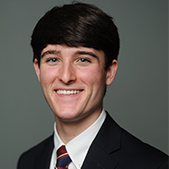
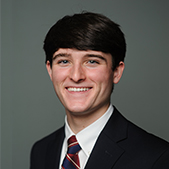
- fixed images and headings

diff --git a/index.html b/index.html
@@ -158,23 +158,25 @@
 									<p>“Non Impediti Ratione Cogitationis — Unencumbered by the Thought Process.”<br>—Tom Magliozzi</p>
 								</div>
 							</div>
-                            <h2>Meet the Student</h2>
-                            <p>We only keep a few...</p>
+                            <header class="major special">
+                                <h2>Meet the Students</h2>
+                                <p>We only keep a few.</p>
+                            </header>
                             <div class="feature">
                                 <a href="http://github.com/ryantruitt" target="_blank">
-                                    <div class="image rounded"><img src="images/ryan.jpeg" alt="" height="180" width="180" /></div>
+                                    <div class="image rounded"><img src="images/ryan.jpg" alt="" height="180" width="180" /></div>
                                 </a>
                                 <div class="content">
                                     <header>
                                         <h4>Ryan Truitt</h4>
                                         <p>Web | Computer Science Major</p>
                                     </header>
-                                    <p>Matt York in training. </br>Learning how to be a coder.</p>
+                                    <p>Matt York in training. </br>Coffee and coding.</p>
                                 </div>
                             </div>
                             <div class="feature">
                                 <a href="http://github.com/uacaps" target="_blank">
-                                    <div class="image rounded"><img src="images/grayson.jpeg" alt="" height="180" width="180" /></div>
+                                    <div class="image rounded"><img src="images/grayson.jpg" alt="" height="180" width="180" /></div>
                                 </a>
                                 <div class="content">
                                     <header>
